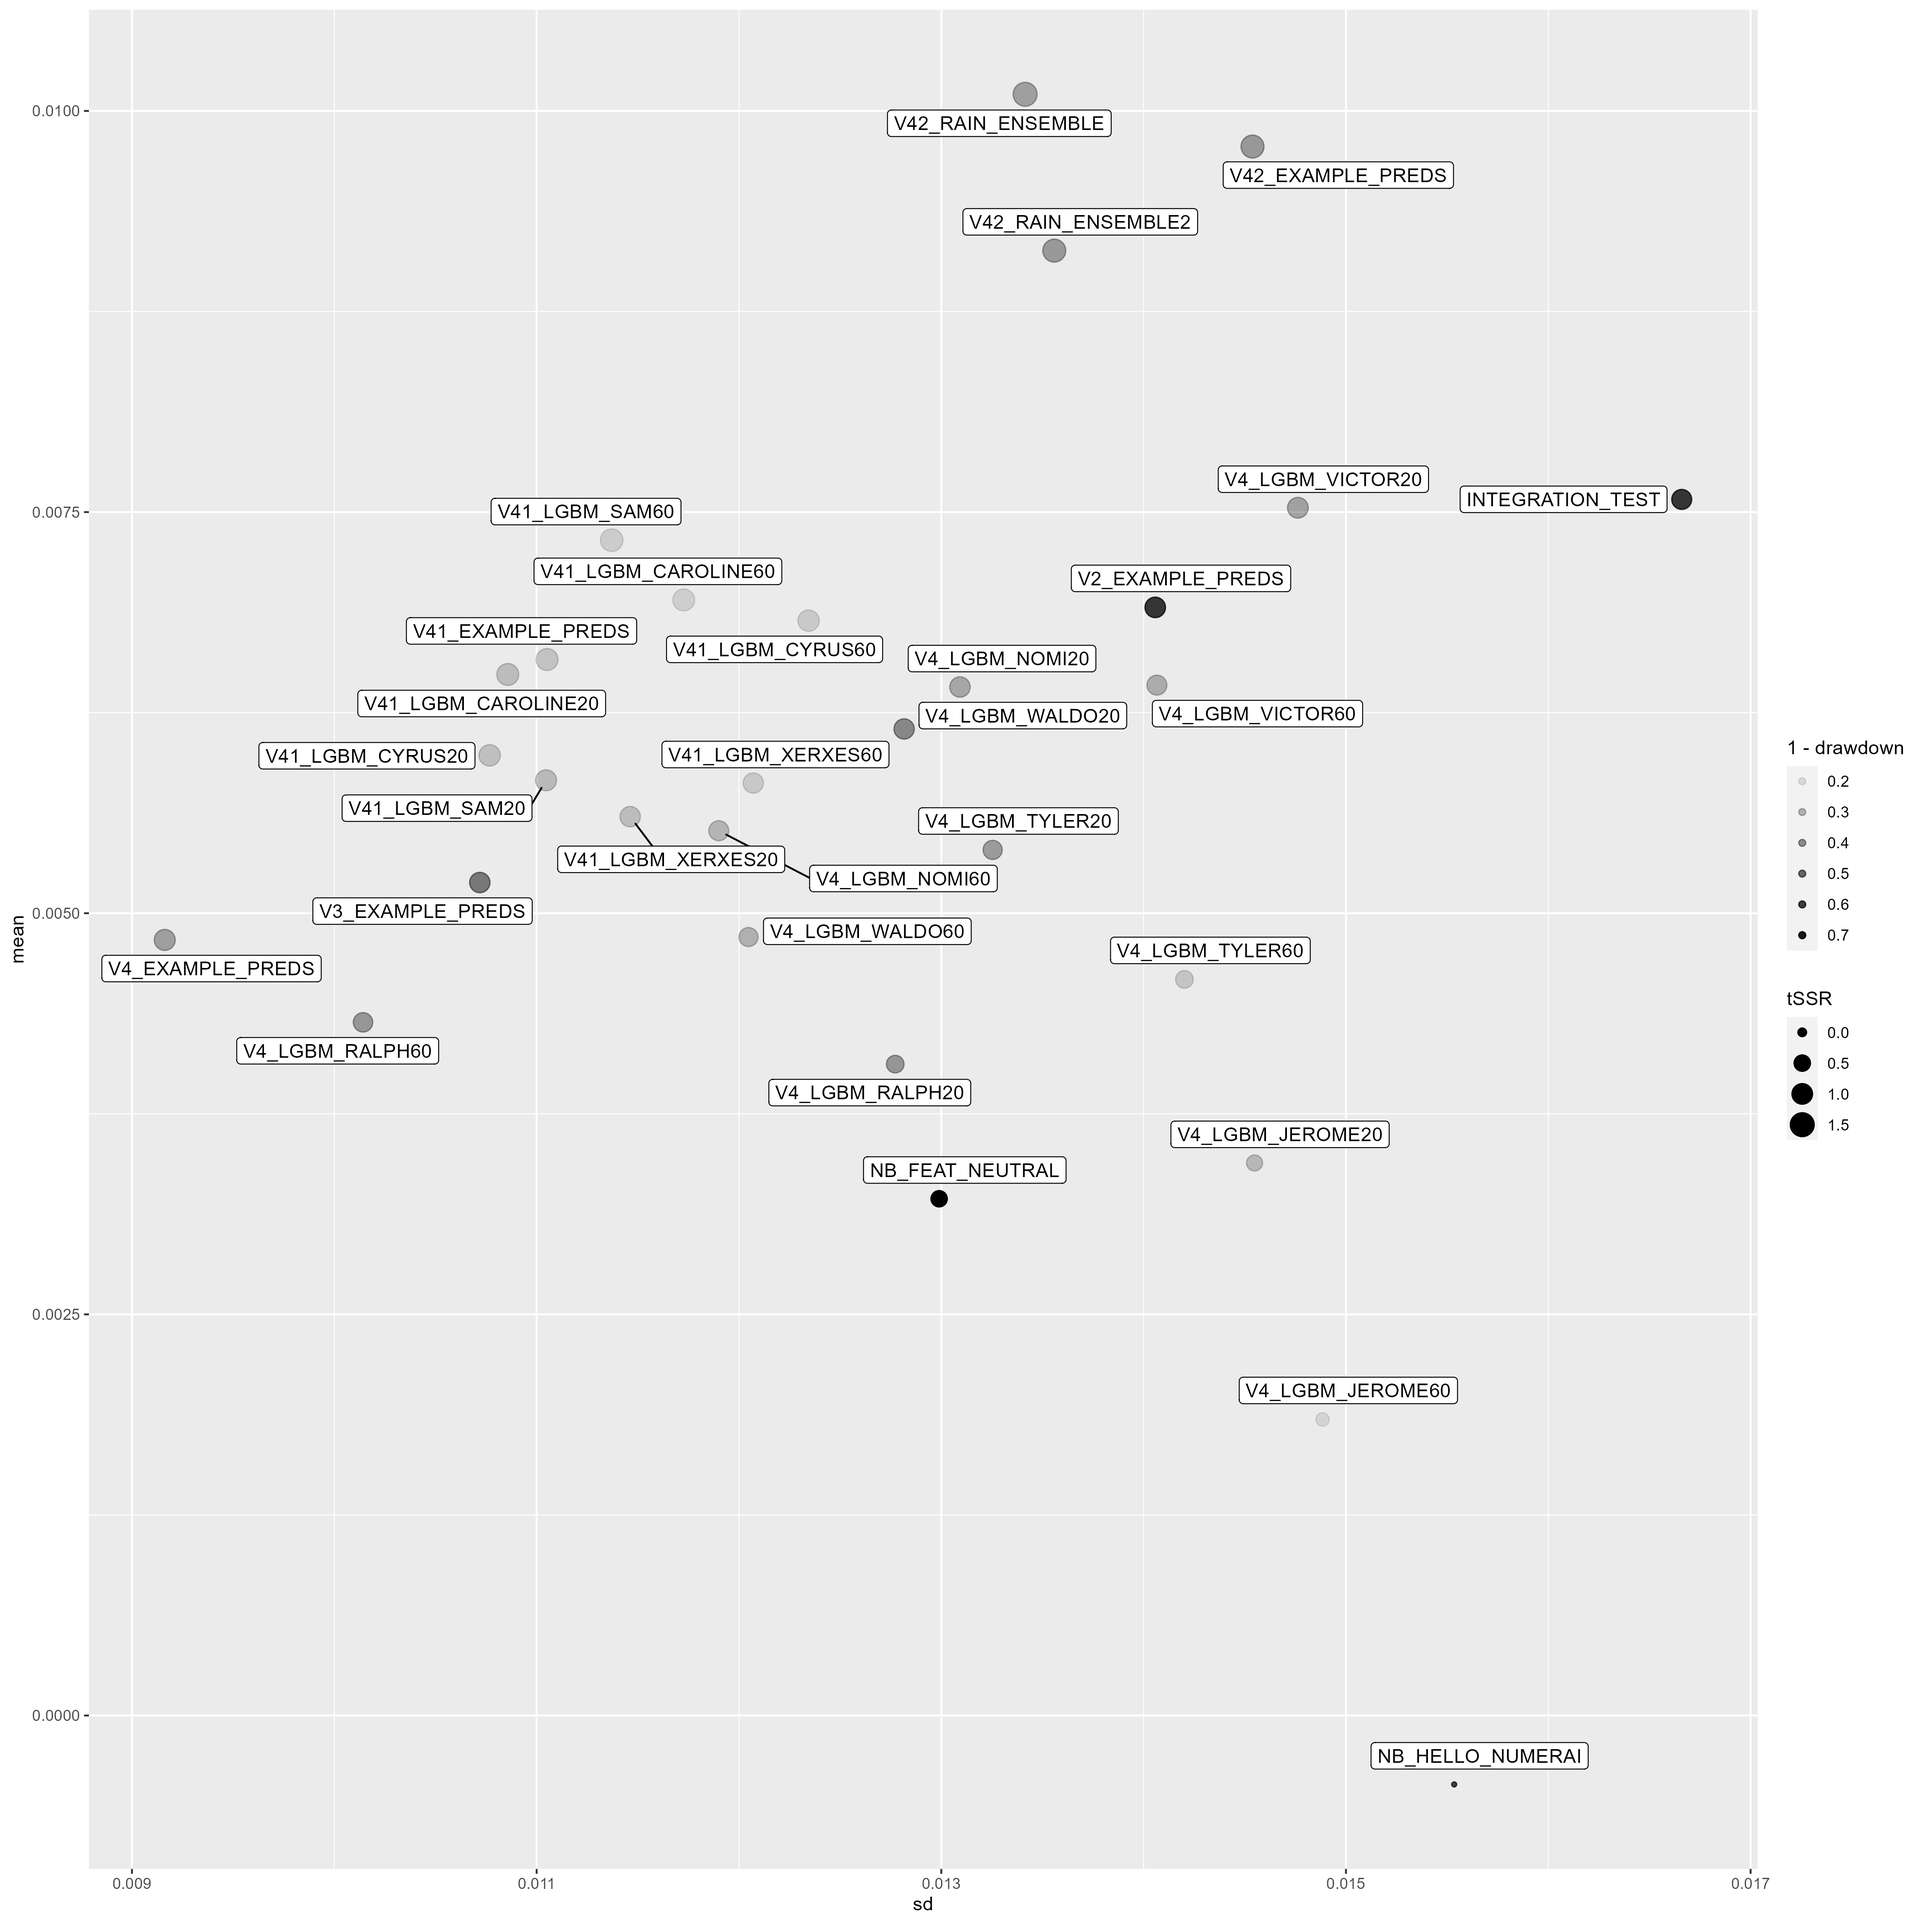
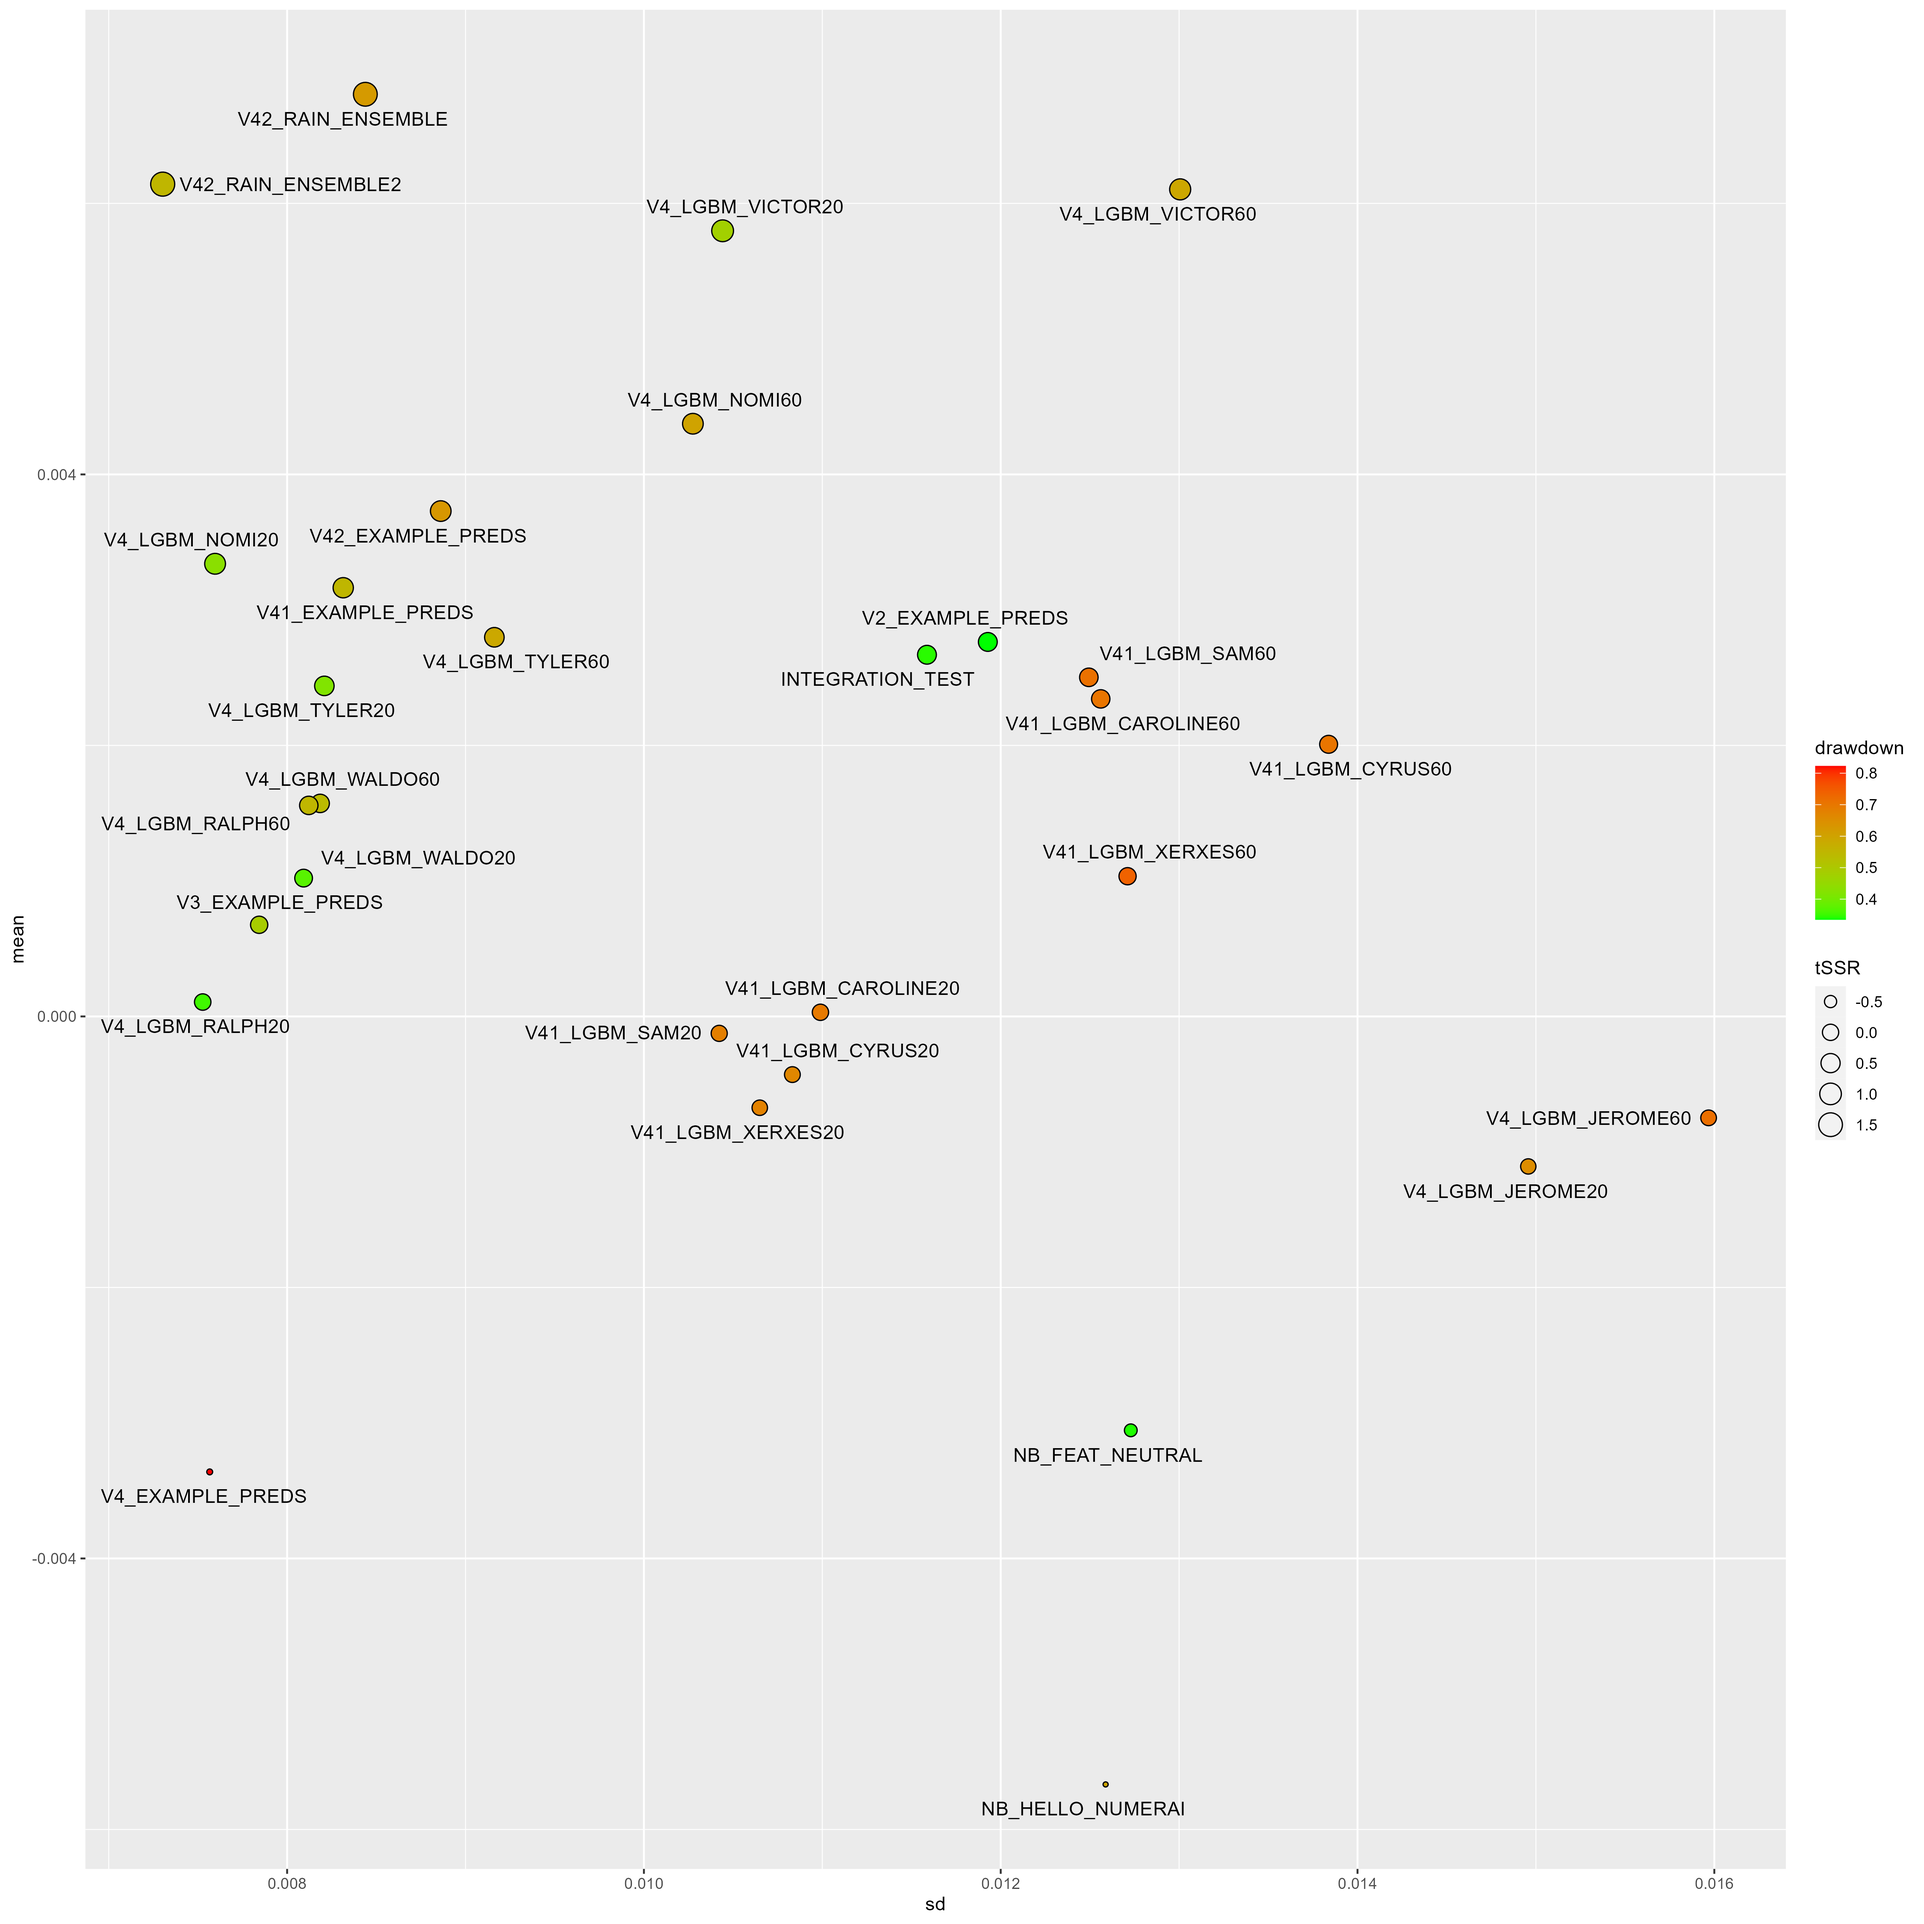
MMC now backfilled. Updated the documentation & the threshold cutoffs for a good model

diff --git a/README.md b/README.md
@@ -3,15 +3,6 @@
 For changelog see the CHANGELOG.md file
 For a python alternative, see [numerai-portfolio-opt](https://github.com/eses-wk/numerai-portfolio-opt)
 
-
-## WARNING
-
-Release 2.0.0 contains a bug that makes Vlad pull the corr20V2 scores as if they are MMC. Currently, the MMC scores aren't backfilled yet, so Vlad V2 isn't useful right now, unless you want to base your staking on corr20V2 scores.
-
-The culprit was line 58 in functions.R, where there is a ```colnames(temp) <- c("roundNumber","score")``` that shouldn't be there, which renames the _corr20V2_ column to that of _score_
-
-The latest build doesn't have that problem, but MMC is only partially backfilled right now, so Vlad is currently in limbo, waiting for enough MMC scores to be available to provide advice.
-
 ## Warnings
 
 Vlad only considers portfolios with a average positive return. This is because I noticed that
@@ -49,28 +40,35 @@ Second, your models will get grouped based on how complete their time series is.
 You will get an intermediate table showing per starting point what your optimal portfolio is. In the case of the Numer.ai benchmark models, the V3_EXAMPLE_PREDS model has no scores for round 339, so is excluded from the portfolio optimization starting from round 339. But it has values from round 340 onwards, so round 340 is a second starting point, and there the V3_EXAMPLE_PREDS model is considered an valuable model to blend into your stakes.
 
 ```
-|name              |weight |stake |mean   |Cov    |CVaR   |VaR    |samplesize |starting_round |
-|:-----------------|:------|:-----|:------|:------|:------|:------|:----------|:--------------|
-|INTEGRATION_TEST  |0.746  |106   |0.0082 |0.0195 |0.0269 |0.0242 |270        |339            |
-|V42_EXAMPLE_PREDS |0.135  |19    |       |       |       |       |           |               |
-|V42_RAIN_ENSEMBLE |0.119  |17    |       |       |       |       |           |               |
-|                  |       |      |       |       |       |       |           |               |
-|INTEGRATION_TEST  |0.442  |63    |0.0074 |0.018  |0.0269 |0.0234 |269        |340            |
-|V3_EXAMPLE_PREDS  |0.309  |44    |       |       |       |       |           |               |
-|V42_EXAMPLE_PREDS |0.143  |20    |       |       |       |       |           |               |
-|V42_RAIN_ENSEMBLE |0.105  |15    |       |       |       |       |           |               |
-|                  |       |      |       |       |       |       |           |               |
+  |name               |weight |stake |mean   |Cov    |CVaR   |VaR    |samplesize |starting_round |
+  |:------------------|:------|:-----|:------|:------|:------|:------|:----------|:--------------|
+  |INTEGRATION_TEST   |0.297  |42    |0.0043 |0.0078 |0.0078 |0.0066 |273        |339            |
+  |V42_RAIN_ENSEMBLE2 |0.098  |14    |       |       |       |       |           |               |
+  |V4_LGBM_NOMI20     |0.093  |13    |       |       |       |       |           |               |
+  |V4_LGBM_TYLER60    |0.133  |19    |       |       |       |       |           |               |
+  |V4_LGBM_VICTOR20   |0.379  |54    |       |       |       |       |           |               |
+  |                   |       |      |       |       |       |       |           |               |
+  |INTEGRATION_TEST   |0.236  |34    |0.004  |0.0074 |0.009  |0.0065 |272        |340            |
+  |V2_EXAMPLE_PREDS   |0.225  |32    |       |       |       |       |           |               |
+  |V42_RAIN_ENSEMBLE2 |0.087  |12    |       |       |       |       |           |               |
+  |V4_LGBM_NOMI20     |0.08   |11    |       |       |       |       |           |               |
+  |V4_LGBM_TYLER60    |0.073  |10    |       |       |       |       |           |               |
+  |V4_LGBM_VICTOR20   |0.299  |43    |       |       |       |       |           |               |
+  |                   |       |      |       |       |       |       |           |               |
 ```
 
 Finally, the last table merges the suggested stake distributions of your different starting points into a single stake distribution. 
 
 ```
-|name              | weight| stake|mean   |Cov    |CVaR   |VaR    |samplesize |
-|:-----------------|------:|-----:|:------|:------|:------|:------|:----------|
-|INTEGRATION_TEST  |  0.594|    85|0.0078 |0.0187 |0.0267 |0.0242 |269        |
-|V3_EXAMPLE_PREDS  |  0.155|    22|       |       |       |       |           |
-|V42_EXAMPLE_PREDS |  0.139|    20|       |       |       |       |           |
-|V42_RAIN_ENSEMBLE |  0.112|    16|       |       |       |       |           |
+  |name               | weight| stake|mean   |Cov    |CVaR   |VaR    |samplesize |
+  |:------------------|------:|-----:|:------|:------|:------|:------|:----------|
+  |INTEGRATION_TEST   |  0.266|    38|0.0041 |0.0073 |0.0078 |0.0053 |272        |
+  |V2_EXAMPLE_PREDS   |  0.112|    16|       |       |       |       |           |
+  |V42_RAIN_ENSEMBLE2 |  0.092|    13|       |       |       |       |           |
+  |V4_LGBM_NOMI20     |  0.086|    12|       |       |       |       |           |
+  |V4_LGBM_TYLER60    |  0.103|    14|       |       |       |       |           |
+  |V4_LGBM_VICTOR20   |  0.339|    48|       |       |       |       |           |
+
 ```
 The columns _mean_, _covariance_ and _samplesize_ should be fairly self-evident, but for _CVaR_ and _VaR_ I'll gladly let ChatGPT explain those below.
 

diff --git a/CHANGELOG.md b/CHANGELOG.md
@@ -1,4 +1,11 @@
-2023-11-23: [NEW VERSION].
+### 2023-11-26: V2.0.1 [BUGFIX].
+
+MMC scores are now filled in by Numer.ai, and the bug in v2.0.0 is fixed. Vlad is usable!
+
+The bug was line 58 in functions.R, where there is a ```colnames(temp) <- c("roundNumber","score")``` that shouldn't be there, which renames the _corr20V2_ column to that of _score_
+
+
+### 2023-11-23: V2.0.0 [NEW VERSION. RELEASED].
 
 New version in response to the new scoring mechanism that will be activated at the end of 2023/early 2024.
 
@@ -11,7 +18,10 @@ Many changes, but this sums it up:
 * your models likely don't all start at the same round. Vlad now calculates per starting point what the optimal portfolio is, presents all of those portfolios, and also (dumbly/blindly) combines those portfolios into a single one by equal weighting and merging the different starting point portfolios.
 * pretty printing of portfolios.
 
-2023-07-12: [BUGFIX]. Vlad now actually only considers resolved rounds (as promised in the readme). There is a new toggle in optimize_stake.R that allows you to choose the behavior.
+
+### 2023-07-12: V1.0.1 [BUGFIX]. 
+
+Vlad now actually only considers resolved rounds (as promised in the readme). There is a new toggle in optimize_stake.R that allows you to choose the behavior.
 
 If you want to use unresolved rounds, change the below line to onlyresolved = FALSE.
 
@@ -19,10 +29,7 @@ If you want to use unresolved rounds, change the below line to onlyresolved = FA
 
 Also added a warning and a check for when people start tinkering with what models to add. Sometimes the tangency portfolio algorithm malfunctions, and picks a single negative-return stock. Now you get a warning that says which portfolio was excluded 
 
-## WARNING
 
-Release 2.0.0 contains a bug that makes Vlad pull the corr20V2 scores as if they are MMC. Currently, the MMC scores aren't backfilled yet, so Vlad V2 isn't useful right now, unless you want to base your staking on corr20V2 scores.
+### 2023-07-12: V1.0.0 [FIRST VERSION. RELEASED]. 
 
-The culprit was line 58 in functions.R, where there is a ```colnames(temp) <- c("roundNumber","score")``` that shouldn't be there, which renames the _corr20V2_ column to that of _score_
-
-The latest build doesn't have that problem, but MMC is only partially backfilled right now, so Vlad is currently in limbo, waiting for enough MMC scores to be available to provide advice.
+See readme.
